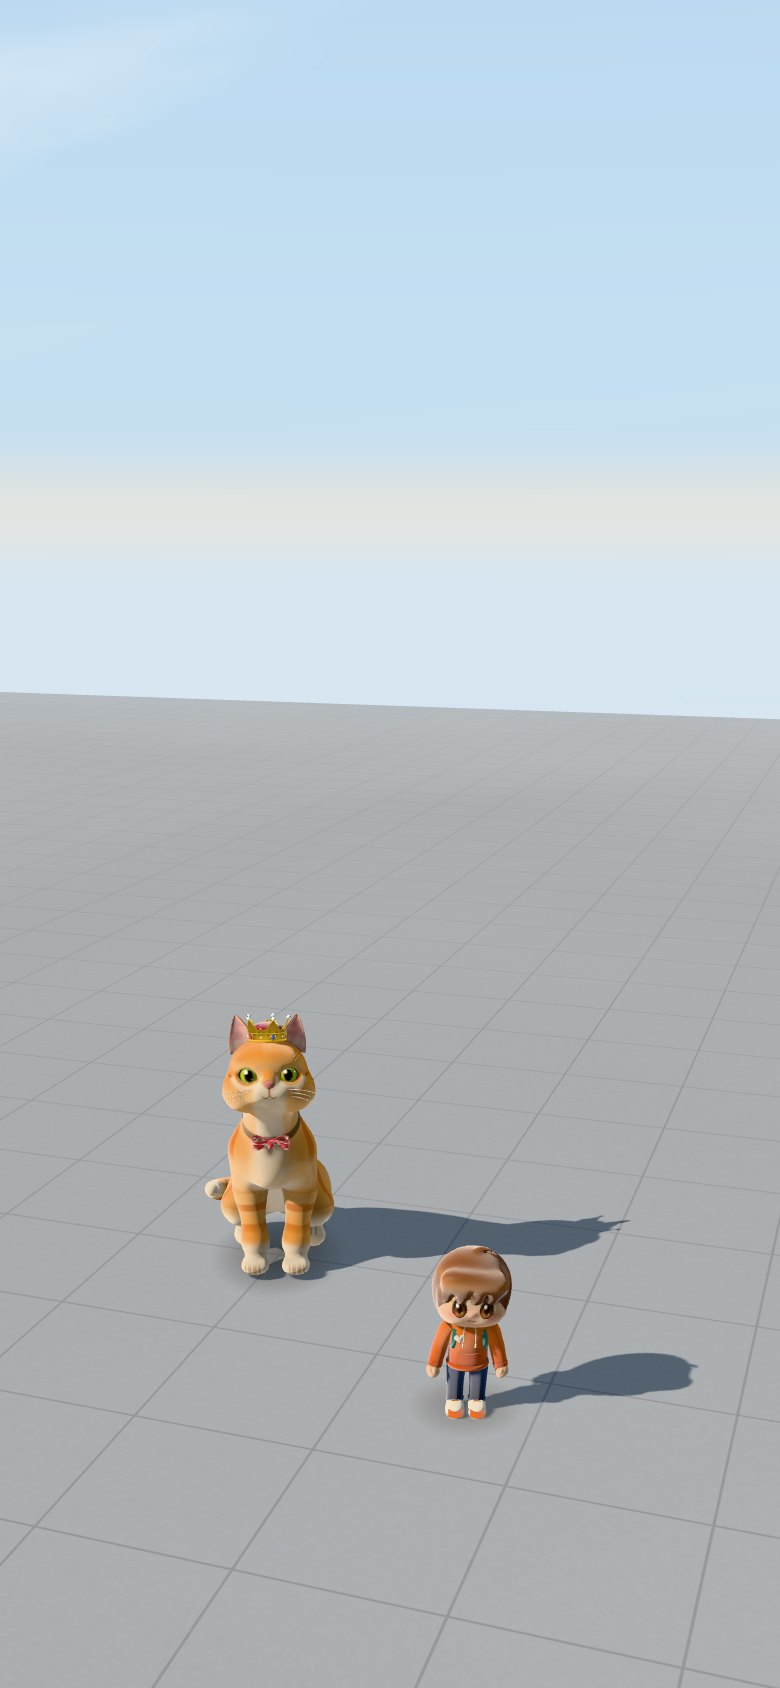
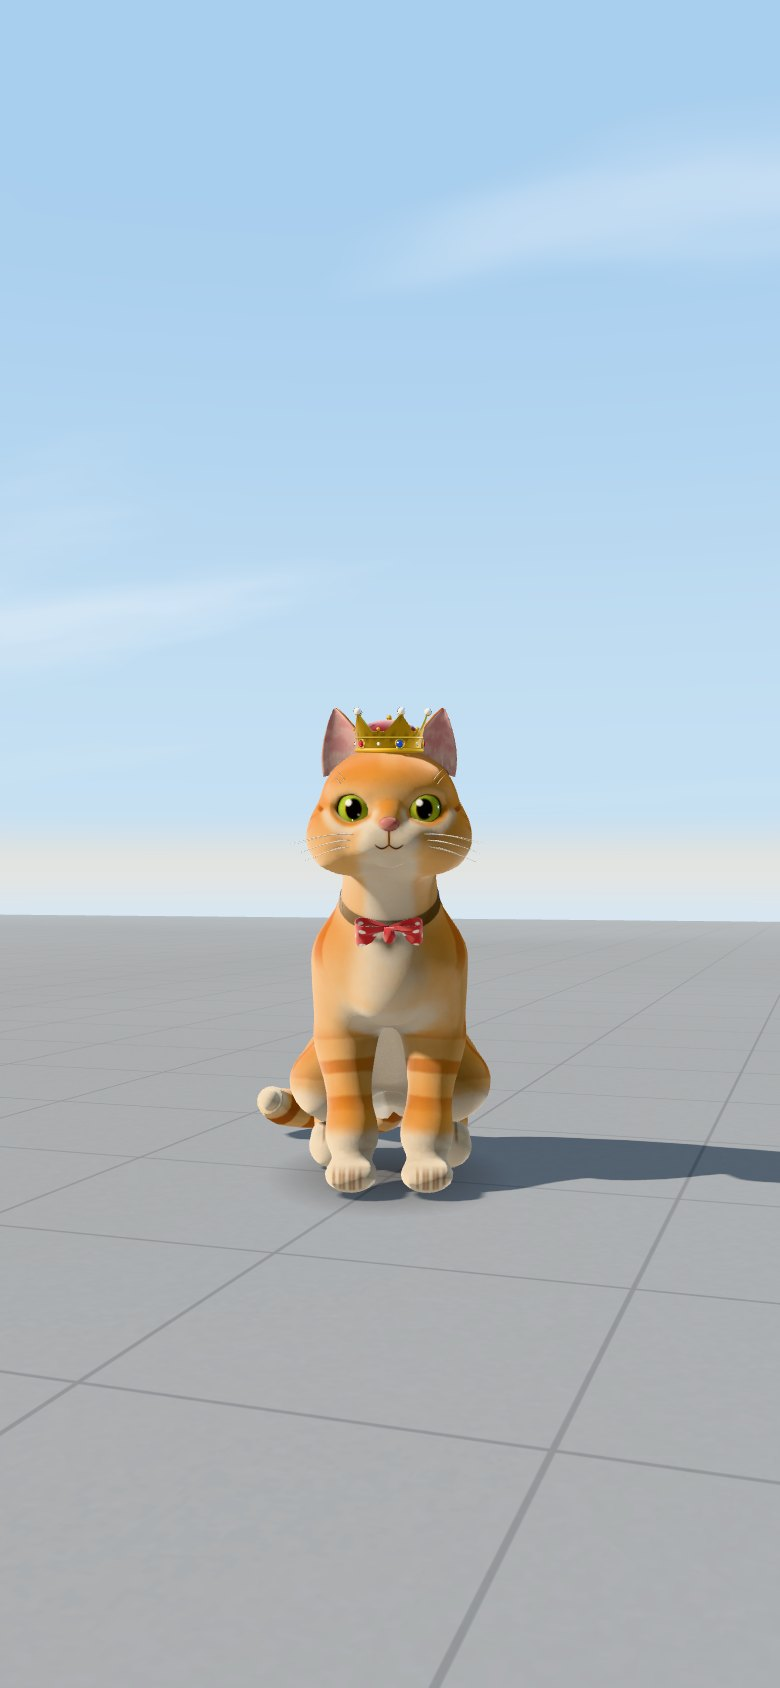
Day 3: first person, and a bigger you
The camera is your eyes (drag to look, tap or WASD to walk, your view turns the way you walk);
the player is scaled up from x14 to x20 (about 5 m, eye height 4.15 m).

diff --git a/src/main.js b/src/main.js
@@ -183,7 +183,8 @@ async function start() {
   const target = [0, PLATE.topY, 0];
   const home = { az: 0.32, pol: 1.05, dist: 32, height: 16, target, shift: 0, shiftX: 0, fov: 60, horizon: 0.42 };
   let follow = true;                                       // the camera follows the kitty until you move it (Day 3: always you)
-  let camZoom = 1;
+  let camZoom = 1, firstPerson = false, tagMinY = 0;
+  const eye = new THREE.Vector3(), lookAtPt = new THREE.Vector3();
   let onFree = () => {};
   const rig = new OrbitRig(camera, canvas, { target, minPolar: 0.22, maxPolar: 1.52, minHeight: 1.5,
     bounds: PLATE.half - 8, onInteract: () => { looked = true; },
@@ -218,6 +219,7 @@ async function start() {
       // keep the horizon below the bubble, however long the day's headline is
       const b = document.querySelector('.bubble')?.getBoundingClientRect();
       if (b && b.height) root.style.setProperty('--hint-top', `${Math.round(b.bottom + 30)}px`);   // the hint sits just under it
+      if (b && b.height) tagMinY = Math.round(b.bottom + 100);
       if (b && b.height) spec.horizon = Math.min(short ? 0.6 : 0.45, Math.max(spec.horizon, (b.bottom + 34) / h));
     }
     camera.fov = spec.fov;
@@ -231,7 +233,7 @@ async function start() {
     home.shift = horizonAt(pitch - edgeDip(spec.height, spec.height / Math.tan(pitch), home.az), spec.fov) - spec.horizon;
     home.shiftX = 0;
     rig.setLimits(camZoom !== 1 ? 11 : 6, camZoom !== 1 ? 62 : 170);   // locked on the player: never far away
-    setShift(home.shift, 0);
+    if (firstPerson) { camera.fov = portrait ? 66 : wide ? 52 : 58; setShift(0, 0); } else setShift(home.shift, 0);
   }
   function setShift(sy, sx = 0) {
     const w = innerWidth, h = innerHeight;
@@ -300,7 +302,7 @@ async function start() {
   } catch (err) { console.warn('Glikdev: the kitty did not load', err); kitty = null; }
 
   // ------------------------------------------------------------ the shop and you (Day 3: the owner's ideas)
-  let player = null, store = null, town = null;
+  let player = null, store = null, town = null, PLAYER_EYE = 4;
   const pd = kd ? kd.player : null;                        // a recording shows the player only when its demo says so
   try { town = await import('./town.js'); } catch (err) { console.warn('Glikdev: the shop did not load', err); }
   const building = town ? town.createShop({ scene: world.scene, url: stamped('models/shop.glb'), renderer })
@@ -308,19 +310,25 @@ async function start() {
   if (!live) await building;                               // recordings: it is there from the first frame
   if (kitty && (live || pd)) {
     try {
-      const { createPlayer } = await import('./player.js');
+      const { createPlayer, PLAYER } = await import('./player.js');
+      PLAYER_EYE = PLAYER.eye;
       player = await createPlayer({ scene: world.scene, url: stamped('models/player.glb'),
-        start: pd ? pd.start : { x: 6.5, z: 5.5, heading: home.az },
+        start: pd ? pd.start : { x: 6, z: 17.5, heading: Math.atan2(-6, -17.5) },
         boxes: town ? [town.SHOP_BOX] : [],
-        circles: [() => ({ x: kitty.brain.x, z: kitty.brain.z, r: 2.4 })],
+        circles: [() => ({ x: kitty.brain.x, z: kitty.brain.z, r: 2.8 })],
         script: pd ? pd.script || [] : null });
       rig.moveKeys = false;
-      // third person: the camera is locked on you. Drag turns it round you, pinch or scroll zooms; it cannot wander off.
-      rig.canPan = false;
-      camZoom = 0.74;                                      // a little closer than the wide Day 2 view
-      rig.target[0] = player.x; rig.target[2] = player.z;
-      rig.setLimits(11, 62);
-      rig.setPose({ az: home.az, pol: home.pol, dist: home.dist * camZoom });
+      rig.canPan = false;                                  // the camera is yours: it cannot wander off
+      if (live) {
+        // first person (the owner's choice): the camera is your eyes. Drag looks around; you do not see your own body.
+        firstPerson = true;
+        player.setBodyVisible(false);
+        rig.minHeight = -1e6;                              // (no orbit to keep above the ground)
+        rig.minPolar = 0.95; rig.maxPolar = 2.0;           // look down at your feet, or up at her face and the roofs
+        const az0 = Math.atan2(player.x - kitty.brain.x, player.z - kitty.brain.z);   // facing your kitty
+        rig.setPose({ az: az0, pol: Math.PI / 2 + 0.03, dist: 30 });
+        layout();
+      }
     } catch (err) { console.warn('Glikdev: the player did not load', err); player = null; }
   }
   const kittyBusy = () => { const b = kitty.brain; return ['eat', 'pounce', 'bat'].includes(b.mode) || b.goal === 'eat' || b.goal === 'yarn' || !!b.yarn?.held; };
@@ -769,7 +777,7 @@ async function start() {
     let s = 1;
     if (filmTag) s = t < filmTagAt ? 0 : Math.min(1, 1 + 2.7 * (Math.min(1, (t - filmTagAt) / 0.45) - 1) ** 3 + 1.7 * (Math.min(1, (t - filmTagAt) / 0.45) - 1) ** 2);
     tag.style.visibility = vis && s > 0.01 ? 'visible' : 'hidden';
-    const x = (tagPos.x + 1) / 2 * innerWidth, y = (1 - tagPos.y) / 2 * innerHeight;
+    const x = (tagPos.x + 1) / 2 * innerWidth, y = Math.max(tagMinY, (1 - tagPos.y) / 2 * innerHeight);   // never up over the title card
     tag.style.transform = `translate(${x.toFixed(1)}px, ${y.toFixed(1)}px) translate(-50%, -100%) scale(${s.toFixed(3)})`;
     const b = kitty.brain;
     const hearts = Math.max(1, Math.round(b.happy * 5));
@@ -788,8 +796,8 @@ async function start() {
   // hint, until the first tap that does something
   if (showUI && !demo && !short) {
     hintEl.textContent = kitty && player
-      ? (coarse ? 'Tap the ground to walk there · Tap your kitty to pet her · Walk to the shop to spend tokens'
-        : 'Click the ground or use WASD to walk · Drag to look around · Click your kitty to pet her · Walk to the shop to spend tokens')
+      ? (coarse ? 'Drag to look around · Tap the ground to walk there · Tap your kitty to pet her'
+        : 'Drag to look around · Click the ground or use WASD to walk · Click your kitty to pet her')
       : kitty ? (coarse ? 'Tap the ground to call the kitty · Tap her to pet her · Two fingers to move'
         : 'Click the ground to call the kitty · Click her to pet her · Drag to look around · Right-drag or WASD to move')
       : (coarse ? 'Drag to look around · Two fingers to move and zoom' : 'Drag to look around · Right-drag or WASD to move · Scroll to zoom');
@@ -863,6 +871,21 @@ async function start() {
       }
     } else {
       rig.update(dt);
+      if (firstPerson && player) {
+        const w = player.walker;
+        // walking to a tapped spot (or turning to the shop): your eyes turn the way you go, unless you are looking around
+        if ((w.target || w.face) && rig.pointers.size === 0 && !held.size) {
+          let d = (w.heading + Math.PI) - rig.goal.az;
+          d = ((d + Math.PI) % (Math.PI * 2) + Math.PI * 2) % (Math.PI * 2) - Math.PI;
+          rig.goal.az += d * (1 - Math.exp(-dt * 2.6));
+        }
+        const pitch = rig.pol - Math.PI / 2;               // up is positive
+        const bob = w.moving() ? 0.07 * Math.sin(w.t * (w.speed > 6 ? 15 : 9)) : 0;
+        eye.set(player.x, PLAYER_EYE + bob, player.z);
+        lookAtPt.set(eye.x - Math.sin(rig.az) * Math.cos(pitch), eye.y + Math.sin(pitch), eye.z - Math.cos(rig.az) * Math.cos(pitch));
+        camera.position.copy(eye);
+        camera.lookAt(lookAtPt);
+      }
     }
     if (kitty) {
       kitty.finish(camera.position, ks); placeTag(t);

diff --git a/src/player.js b/src/player.js
@@ -10,10 +10,11 @@ import * as THREE from '../vendor/three/three.module.js';
 import { GLTFLoader } from '../vendor/three/addons/loaders/GLTFLoader.js';
 
 export const PLAYER = {
-  scale: 14,                // the same doll's-house scale as the kitty (she is 23.5 cm at cat size: 3.3 m here)
-  walk: 3.4, run: 9.0,      // m/s
-  runFrom: 7,               // a trip longer than this is run
-  radius: 1.3,
+  scale: 20,                // bigger than the kitty's x14 (the owner: "make me bigger"): 26 cm at cat size, 5.2 m here
+  eye: 4.15,                // where your eyes are (m): the first-person camera sits here
+  walk: 4.6, run: 11.0,     // m/s
+  runFrom: 8,               // a trip longer than this is run
+  radius: 1.8,
   limit: 118,               // the plate is 128 m from the middle to its edge
 };
 const STEP = 1 / 60;
@@ -100,8 +101,8 @@ export function createWalker(o = {}) {
   w.moving = () => w.speed > 0.3;
   /** which clip, and how fast it plays */
   w.anim = () => {
-    if (w.speed > PLAYER.walk * 1.35) return { name: 'Run', rate: Math.min(1.5, Math.max(0.8, w.speed / 6.6)) };
-    if (w.speed > 0.3) return { name: 'Walk', rate: Math.min(1.6, Math.max(0.6, w.speed / 2.9)) };
+    if (w.speed > PLAYER.walk * 1.35) return { name: 'Run', rate: Math.min(1.5, Math.max(0.8, w.speed / 9.4)) };
+    if (w.speed > 0.3) return { name: 'Walk', rate: Math.min(1.6, Math.max(0.6, w.speed / 4.1)) };
     if (w.t < w.waveUntil) return { name: 'Wave', rate: 1 };
     return { name: 'Idle', rate: 1 };
   };
@@ -129,7 +130,7 @@ export async function createPlayer(o) {
   const g = c.getContext('2d'), gr = g.createRadialGradient(32, 32, 2, 32, 32, 31);
   gr.addColorStop(0, 'rgba(38,32,28,0.85)'); gr.addColorStop(0.6, 'rgba(38,32,28,0.4)'); gr.addColorStop(1, 'rgba(38,32,28,0)');
   g.fillStyle = gr; g.fillRect(0, 0, 64, 64);
-  const blob = new THREE.Mesh(new THREE.PlaneGeometry(2.6, 2.6), new THREE.MeshBasicMaterial({
+  const blob = new THREE.Mesh(new THREE.PlaneGeometry(3.7, 3.7), new THREE.MeshBasicMaterial({
     map: new THREE.CanvasTexture(c), transparent: true, opacity: 0.5, depthWrite: false, polygonOffset: true, polygonOffsetFactor: -1 }));
   blob.rotation.x = -Math.PI / 2;
   blob.position.y = 0.04;
@@ -195,6 +196,8 @@ export async function createPlayer(o) {
       while (walker.t < t - STEP * 0.5) tick();
     },
     position(out = new THREE.Vector3()) { return out.set(walker.x, 0, walker.z); },
+    /** first person: you do not see your own body (your shadow stays) */
+    setBodyVisible(v) { model.visible = v; },
     busy() { return walker.moving() || !!walker.target || !!walker.dir || !!walker.face || walker.t < walker.waveUntil; },
   };
 }

diff --git a/index.html b/index.html
@@ -14,7 +14,7 @@
   <meta property="og:image" content="https://dtubugk-gif.github.io/glikdev/poster.jpg">
   <meta property="og:image:width" content="1440">
   <meta property="og:image:height" content="900">
-  <meta property="og:image:alt" content="A ginger kitty in a gold crown beside a small person in an orange hoodie, with a little wooden shop behind them">
+  <meta property="og:image:alt" content="A ginger kitty in a gold crown and a bow tie sits facing you, with a little wooden shop to the right">
   <meta name="twitter:card" content="summary_large_image">
   <link rel="icon" href="logo.svg?v=9da4100a261e" type="image/svg+xml">
   <link rel="preload" href="fonts/fredoka-700.woff2" as="font" type="font/woff2" crossorigin>
@@ -54,7 +54,7 @@
     <img src="poster.jpg?v=9da4100a261e" alt="" width="1440" height="900" fetchpriority="high" decoding="async">
   </picture>
 
-  <canvas id="world" role="img" aria-label="A big ginger tabby kitty in a gold crown and a bow tie sits beside a small person in an orange hoodie on the grey baseplate; a little wooden shop with a striped awning stands behind them"></canvas>
+  <canvas id="world" role="img" aria-label="Seen through your own eyes: a big ginger tabby kitty in a gold crown and a bow tie sits facing you on the grey baseplate; a little wooden shop with a striped awning stands to the right"></canvas>
 
   <div class="ui" id="ui">
     <header class="title">
